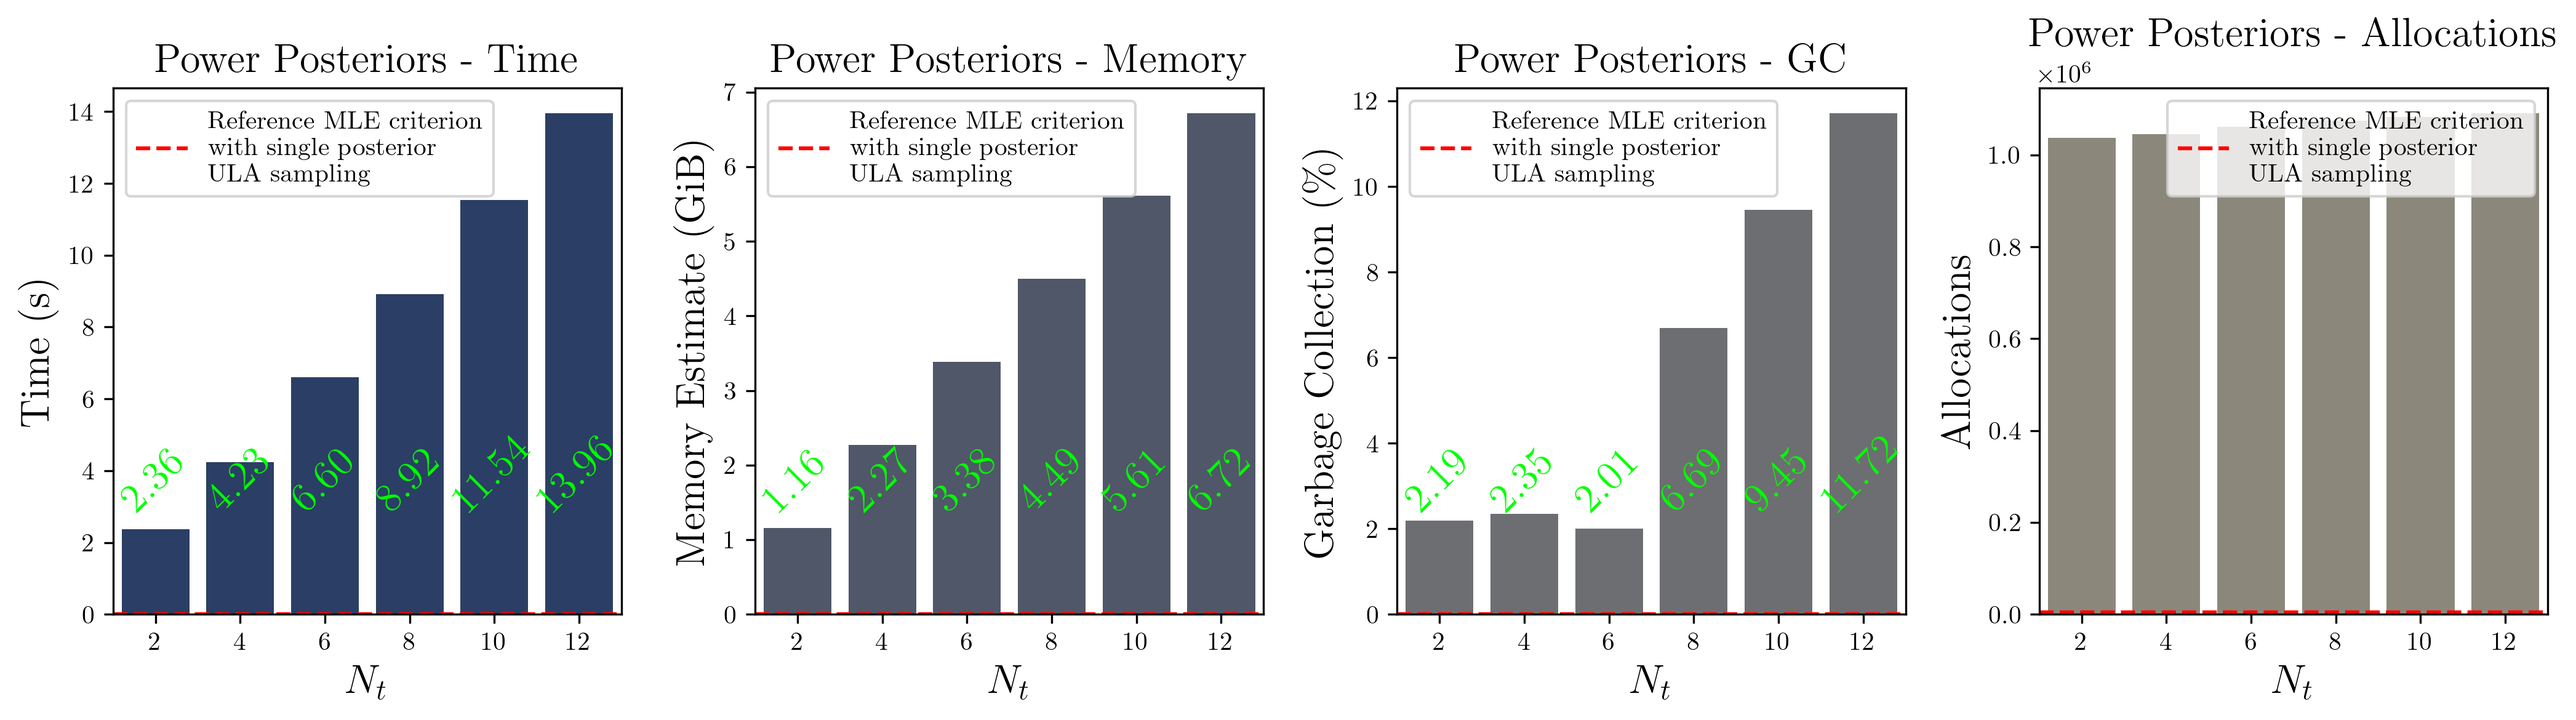
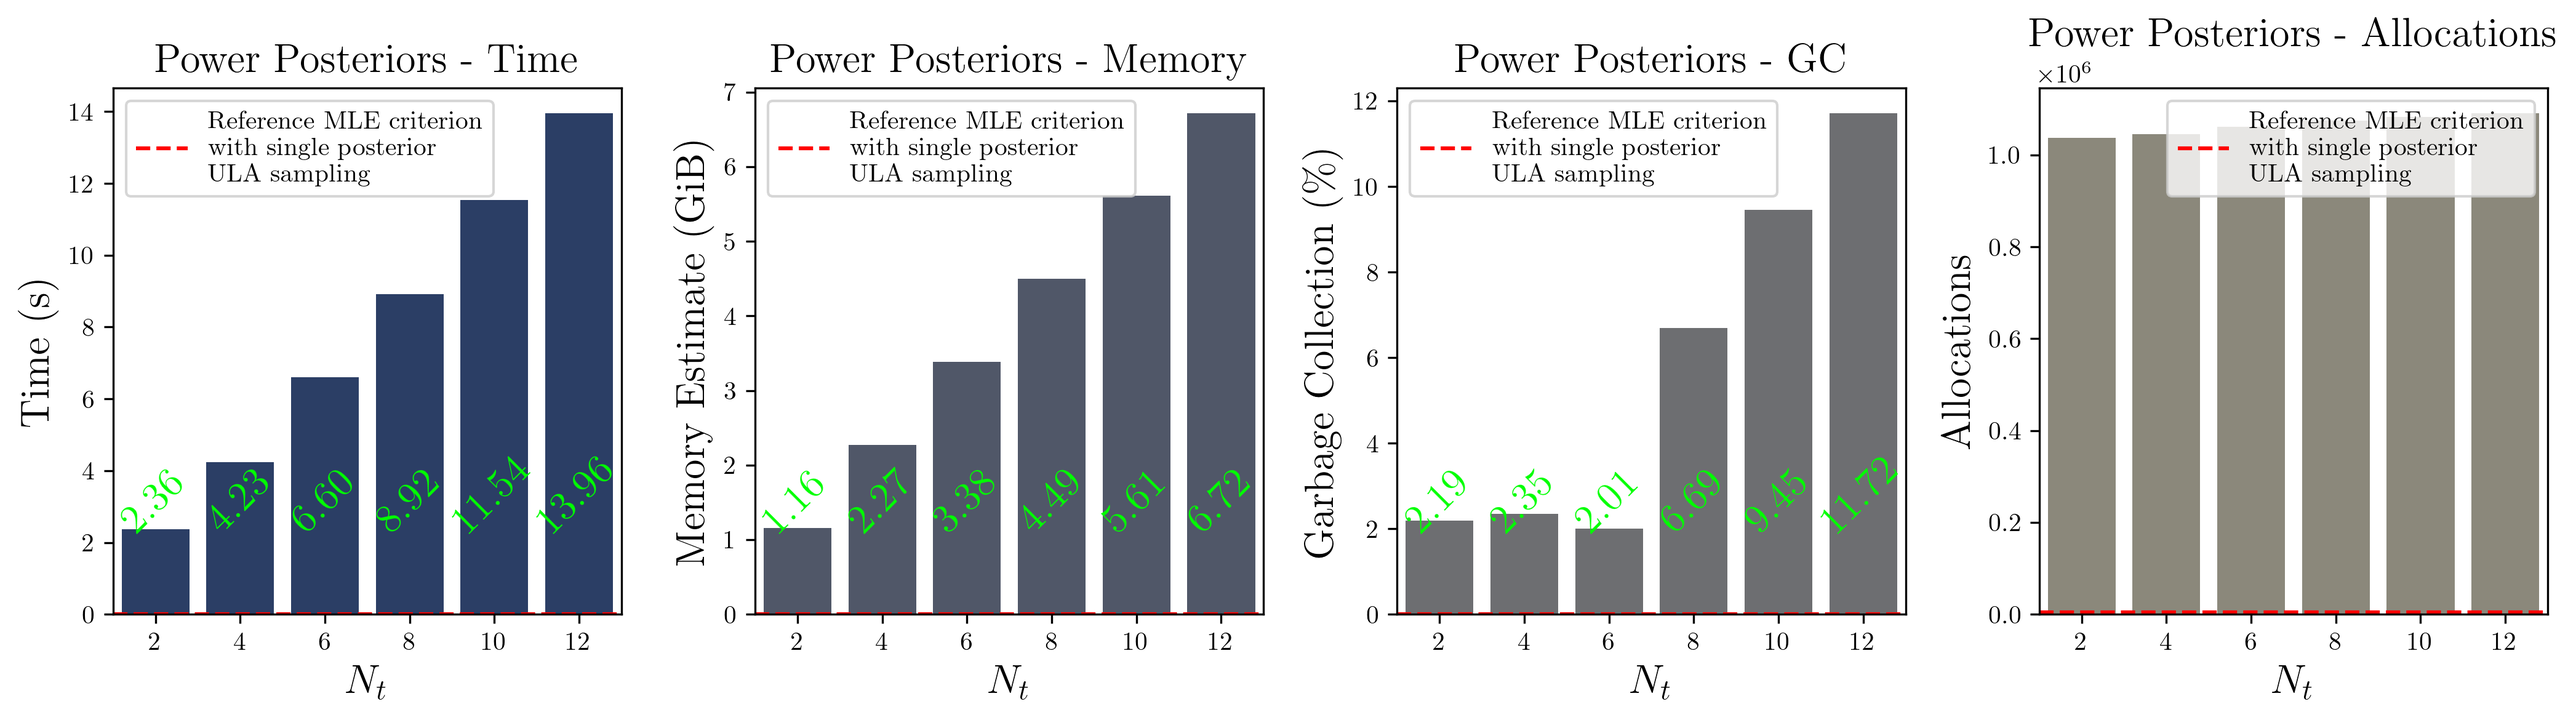
bench clarity

Changed region(s): [[0.0311, 0.6154, 0.2484, 0.7077], [0.528, 0.6154, 0.7453, 0.7385], [0.2795, 0.6462, 0.4969, 0.7077]]

diff --git a/plotting/benchmark/plot_cost.py b/plotting/benchmark/plot_cost.py
@@ -69,7 +69,7 @@ prior_steps_ref = {
 
 keys = [r"$n_z$", r"$N_{t}$", r"$N_{prior}$"]
 colours = ["viridis", "cividis", "plasma"]
-elevations = [0.3, 0.18, 0.4]
+elevations = [0.3, 0.14, 0.4]
 datasets = [latent_dim, mala_steps, prior_steps]
 references = [None, mala_steps_ref, prior_steps_ref]
 titles = [r"Latent Dimension", r"Power Posteriors", "Prior ULA Steps"]
